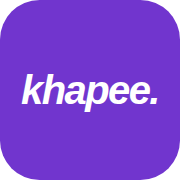
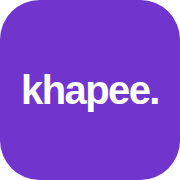
The wordmark stands up
Archivo stays — it is the brand's face and is used nowhere else in the
interface, which is what makes the mark a logotype rather than a heading —
but it is upright now. The italic belongs to "kuch khapee lo.", a line meant
to sound like somebody saying it, and a name that leans is a name in a
hurry.

The roman cut had to be fetched to do it: the font request asked for
ital,wght@1,… which is the italic axis only, so font-style: normal would
have quietly fallen back to Inter and put the mark back in the interface
face. Both cuts are loaded now, and the icon is redrawn upright to match,
so the thing on the home screen and the thing at the top of the page stay
one drawing.

Claude-Session: https://claude.ai/code/session_01VRY2abiwFDn9GdCbNUTowS

Changed region(s): [[0.1111, 0.3889, 0.8889, 0.6389]]

diff --git a/index.html b/index.html
@@ -40,8 +40,9 @@
       wonderful on a poster and tiring on a menu you read for twenty minutes.
       Every app people actually order food from uses a plain, wide-aperture
       sans and spends its personality on colour, photographs and one big
-      headline instead. Inter is that plain face. Archivo appears once, at
-      900 italic, on the line at the top of the home screen.
+      headline instead. Inter is that plain face. Archivo is the brand's
+      own: upright at 900 for the wordmark, italic at 900 for the one line
+      that shouts at the top of the home screen.
 
       preconnect first so the first paint is not waiting on a DNS lookup, and
       display=swap so a slow font never leaves a customer looking at a blank
@@ -51,7 +52,7 @@
     <link rel="preconnect" href="https://fonts.gstatic.com" crossorigin />
     <link
       rel="stylesheet"
-      href="https://fonts.googleapis.com/css2?family=Archivo:ital,wght@1,800;1,900&family=Inter:wght@400;500;600;700;800;900&display=swap"
+      href="https://fonts.googleapis.com/css2?family=Archivo:ital,wght@0,800;0,900;1,800;1,900&family=Inter:wght@400;500;600;700;800;900&display=swap"
     />
 
     <!-- Added to the home screen, this opens as its own app: no browser bars,

diff --git a/src/styles.css b/src/styles.css
@@ -596,17 +596,20 @@ textarea {
   display: flex;
   align-items: baseline;
   /*
-   * The loud face, at the loud weight, italic — the same cut as the line at
-   * the top of the home screen.
+   * The brand's own face, at the heaviest weight it has.
    *
    * Set in the plain interface face it was just the app's name typed out in
    * bold, which is what "cheap" meant: every screen in the product used that
    * face, so the one thing that is supposed to be the brand looked like a
-   * heading that had wandered into the header. Slanted and heavy it is a
-   * logotype, and it rhymes with "kuch khapee lo." two centimetres below it.
+   * heading that had wandered into the header. Archivo is the brand's own
+   * face and is used nowhere else in the interface, which is what makes this
+   * a logotype rather than a heading.
+   *
+   * Upright, not slanted. The italic belongs to "kuch khapee lo." — a line
+   * that is meant to sound like somebody saying it — and a name that leans
+   * is a name in a hurry. This one stands still.
    */
   font-family: var(--shout);
-  font-style: italic;
   font-size: 25px;
   font-weight: 900;
   letter-spacing: -0.045em;
